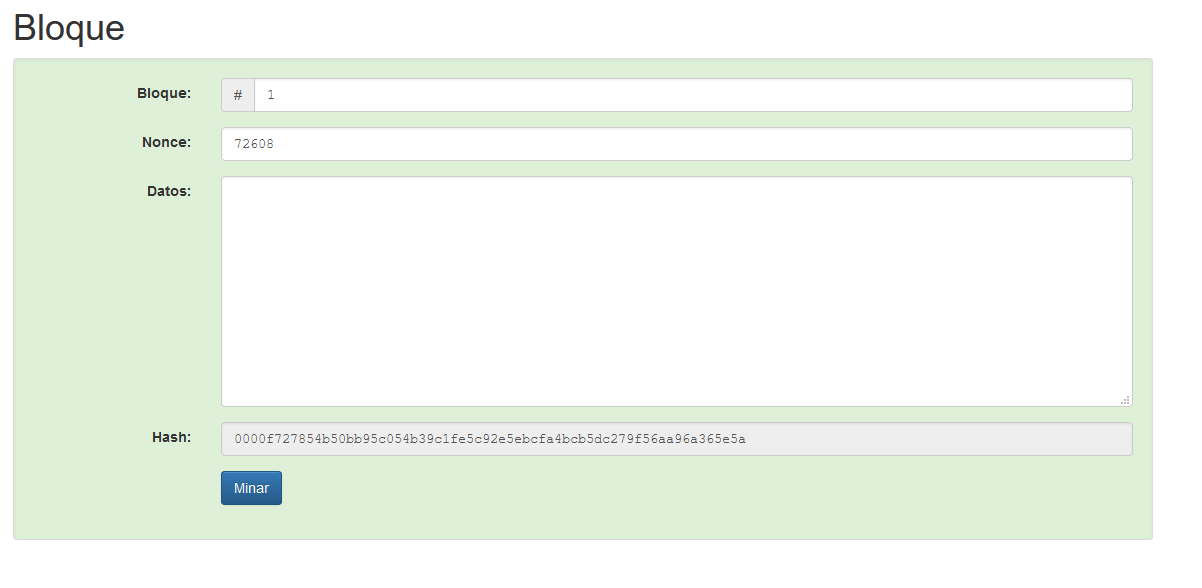
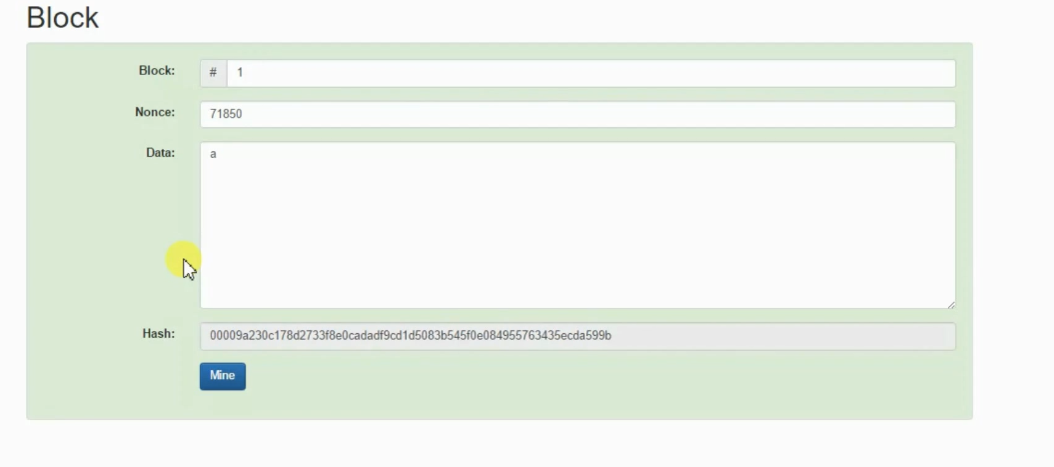
GitBook: [master] 3 pages and 3 assets modified

Changed region(s): [[0.0, 0.0, 0.9715, 0.9293]]

diff --git a/SUMMARY.md b/SUMMARY.md
@@ -125,6 +125,7 @@
   * [2 - ¿Que es bitcoin?](cursos-no-seguridad-udemy/blockchain-fundamentals/2-que-es-bitcoin.md)
   * [3 - Hash](cursos-no-seguridad-udemy/blockchain-fundamentals/3-hash.md)
   * [4 - Hashes and Blockchains](cursos-no-seguridad-udemy/blockchain-fundamentals/4-hashes-and-blockchains.md)
+  * [5 - Cadena de blockchain distribuida](cursos-no-seguridad-udemy/blockchain-fundamentals/5-cadena-de-blockchain-distribuida.md)
 * [Node js](cursos-no-seguridad-udemy/node-js/README.md)
   * [1- Node](cursos-no-seguridad-udemy/node-js/1-node.md)
   * [2- Node modules](cursos-no-seguridad-udemy/node-js/2-node-modules/README.md)

diff --git a/cursos-no-seguridad-udemy/blockchain-fundamentals/3-hash.md b/cursos-no-seguridad-udemy/blockchain-fundamentals/3-hash.md
@@ -10,11 +10,11 @@
 
 {% embed url="https://demoblockchain.org/block" %}
 
-![](../../.gitbook/assets/imagen%20%28305%29.png)
+![](../../.gitbook/assets/imagen%20%28306%29.png)
 
 A notar como tiene cuatro 0 al principio, eso lo marca como bloque valido, pero si agregamos un solo dato invalido no retorna los cuatro 0 al comienzo dejandolo incorrecto.El nonce es number used once te determina un hash valido.
 
-![](../../.gitbook/assets/imagen%20%28304%29.png)
+![](../../.gitbook/assets/imagen%20%28305%29.png)
 
 Podes probar uno por uno los nonce pero es mejor usar una computadora para determinar eso mismo.
 

diff --git a/cursos-no-seguridad-udemy/blockchain-fundamentals/5-cadena-de-blockchain-distribuida.md b/cursos-no-seguridad-udemy/blockchain-fundamentals/5-cadena-de-blockchain-distribuida.md
@@ -1,0 +1,10 @@
+# 5 - Cadena de blockchain distribuida
+
+{% embed url="https://demoblockchain.org/distributed" %}
+
+![](../../.gitbook/assets/imagen%20%28304%29.png)
+
+Si un atacante cambia un bloque en un peer tendria que minar un monton para llegar al frente E incluso asi no importa porque luego al comparar todos los peers se determina que es distinto del resto y se invalida ese peer.
+
+
+
